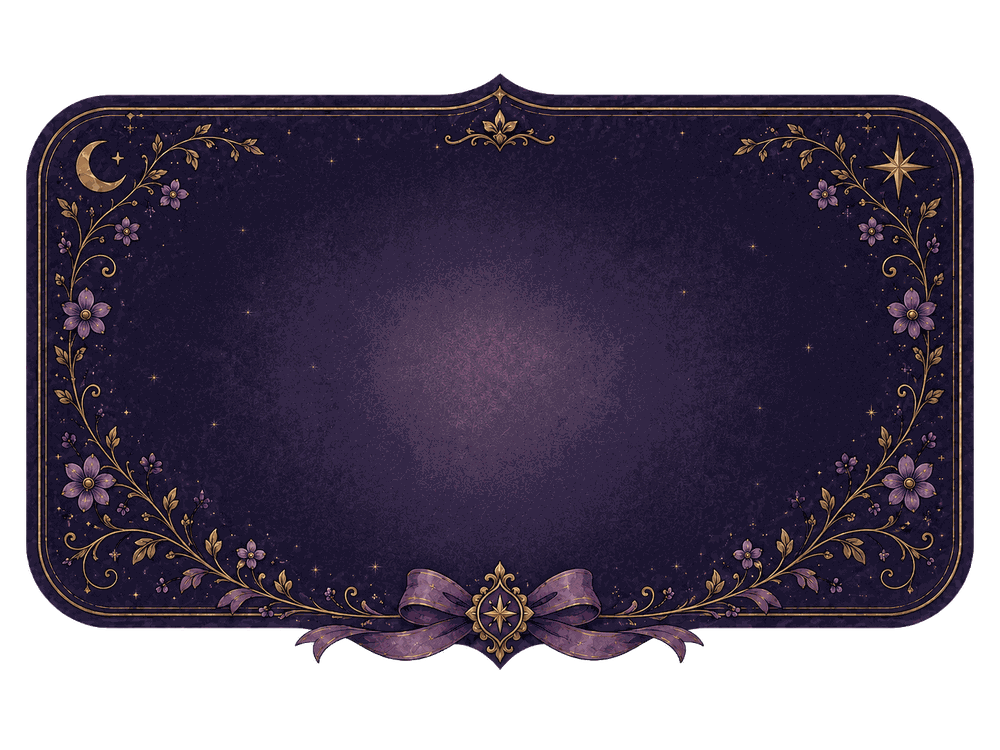
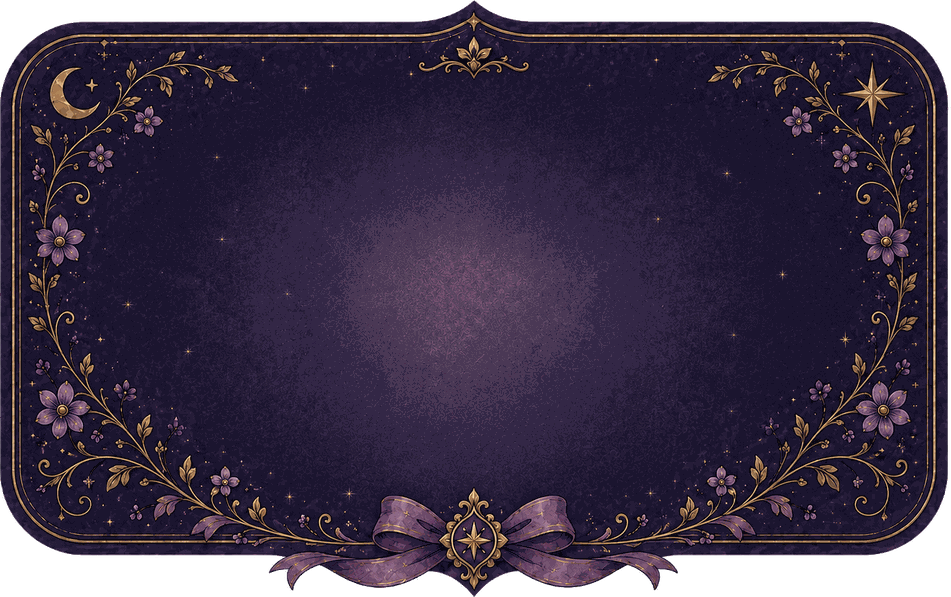
v=26.29: crop PNGs to opaque bounds so element edge = visible frame
new architectural rule: the PNG file's edges must coincide
with the visible frame's edges.  That way an element with
aspect-ratio matching the cropped PNG behaves as a real
container — children positioned with top/left % land inside
the visible frame, never in invisible transparent padding.

cropped:
- assets/0511DE6F-…png: 1000×750 → 951×597 (aspect 1.59).
  was 5 % transparent margins.  nav-card aspect-ratio updated.
- assets/3C68C8E6-…png: 1200×675 → 864×312 (aspect 2.77).
  was 24 % top / 30 % bottom / 14 % side transparent padding
  (that's why the title text kept landing in phantom gaps).

CSS:
- .nav-card aspect-ratio 1000/750 → 951/597.
- .title-plaque aspect-ratio 1200/675 → 864/312.
- .title-plaque .tp-text top 54 → 50 % (true geometric centre
  of the cropped dome).
- nav-card height ≈ 76 vw × 0.628 ≈ 48 vw — shorter than
  before, so .nav-shield + .word-list margin recomputed.

diff --git a/styles.css b/styles.css
@@ -4109,38 +4109,38 @@ body.bg-result .match-result-grid > .card {
 
 /* --- 47.1  the nav card itself, fixed aspect to its source PNG --- */
 .nav-card {
-  /* HUG the banner — no gap.  top = banner-end exactly. */
+  /* PNG was just cropped to its opaque bounds: 951×597 (aspect 1.59).
+     Now the element's edges = the visible frame's edges, so child
+     positions stop landing inside invisible transparent padding.   */
   position: fixed;
   top: calc(100vw * 821 / 1916);
   left: 50%;
   transform: translateX(-50%);
   z-index: 50;
   width: min(76vw, 460px);
-  aspect-ratio: 1000 / 750;
+  aspect-ratio: 951 / 597;
   background:
     url("assets/0511DE6F-6C8F-4E5D-9742-5E5AD77DCD98.png?v=26")
     center/100% 100% no-repeat;
 }
-/* Full-width darken band extends FURTHER DOWN to cover the
-   bg-note area where word rows would otherwise show at the
-   bottom edges of the (narrower) nav-card.                    */
+/* Full-width darken band, sized for the new (shorter) nav-card.
+   nav-card height ≈ 76 vw × (597/951) = 48 vw. */
 .nav-shield {
   position: fixed;
   top: calc(100vw * 821 / 1916);
   left: 0;
   right: 0;
-  height: min(72vw, 410px);               /* taller per user */
+  height: min(54vw, 326px);
   background: #18102a;
   z-index: 49;
   -webkit-mask-image: linear-gradient(180deg,
-    #000 0%, #000 78%, transparent 100%);
+    #000 0%, #000 80%, transparent 100%);
           mask-image: linear-gradient(180deg,
-    #000 0%, #000 78%, transparent 100%);
+    #000 0%, #000 80%, transparent 100%);
   pointer-events: none;
 }
-/* Word list starts after the (now taller + zero-gap) shield. */
 .word-list {
-  margin-top: calc(min(63vw, 380px)) !important;
+  margin-top: calc(min(48vw, 290px)) !important;
 }
 /* Word list starts AFTER the nav-card bottom (= banner + 6 + height).
    nav-card height = 76 vw × 0.75 = 57 vw, capped at 345 px. */
@@ -4207,16 +4207,17 @@ body.bg-result .match-result-grid > .card {
 /* --- 47.3  title plaque — bigger + middle-line aligns to the
    nav-card's outer top edge (plaque half above, half below).
    Aspect locked to the dome PNG's natural 1200/675. --- */
-/* Plaque sized so its text band sits comfortably above the
-   body area without overlapping it.  width 68% is the sweet
-   spot — bigger than before but body still fits. */
+/* 3C68C8E6 PNG was cropped to its opaque bounds: 864×312
+   (aspect 2.77).  Element edges now match the dome's actual
+   silhouette, no invisible padding above/below.  Plaque text
+   centred via top:50 % falls right in the purple band.       */
 .nav-card .title-plaque {
   position: absolute;
-  top: 3%;
+  top: 4%;
   left: 50%;
   transform: translateX(-50%);
   width: 68%;
-  aspect-ratio: 1200 / 675;
+  aspect-ratio: 864 / 312;
   height: auto;
   background:
     url("assets/3C68C8E6-B3FB-43A6-AE2C-CBDE19872718.png?v=26")
@@ -4225,9 +4226,9 @@ body.bg-result .match-result-grid > .card {
 .nav-card .title-plaque .tp-text {
   position: absolute;
   left: 50%;
-  /* Pixel-measured: dome's purple text band centres at y=54 % of
-     the PNG (the spire pushes the optical centre down).         */
-  top: 54%;
+  /* PNG was cropped to opaque bounds — text band is now truly
+     at the geometric centre. */
+  top: 50%;
   transform: translate(-50%, -50%);
   width: 80%;
   text-align: center;
